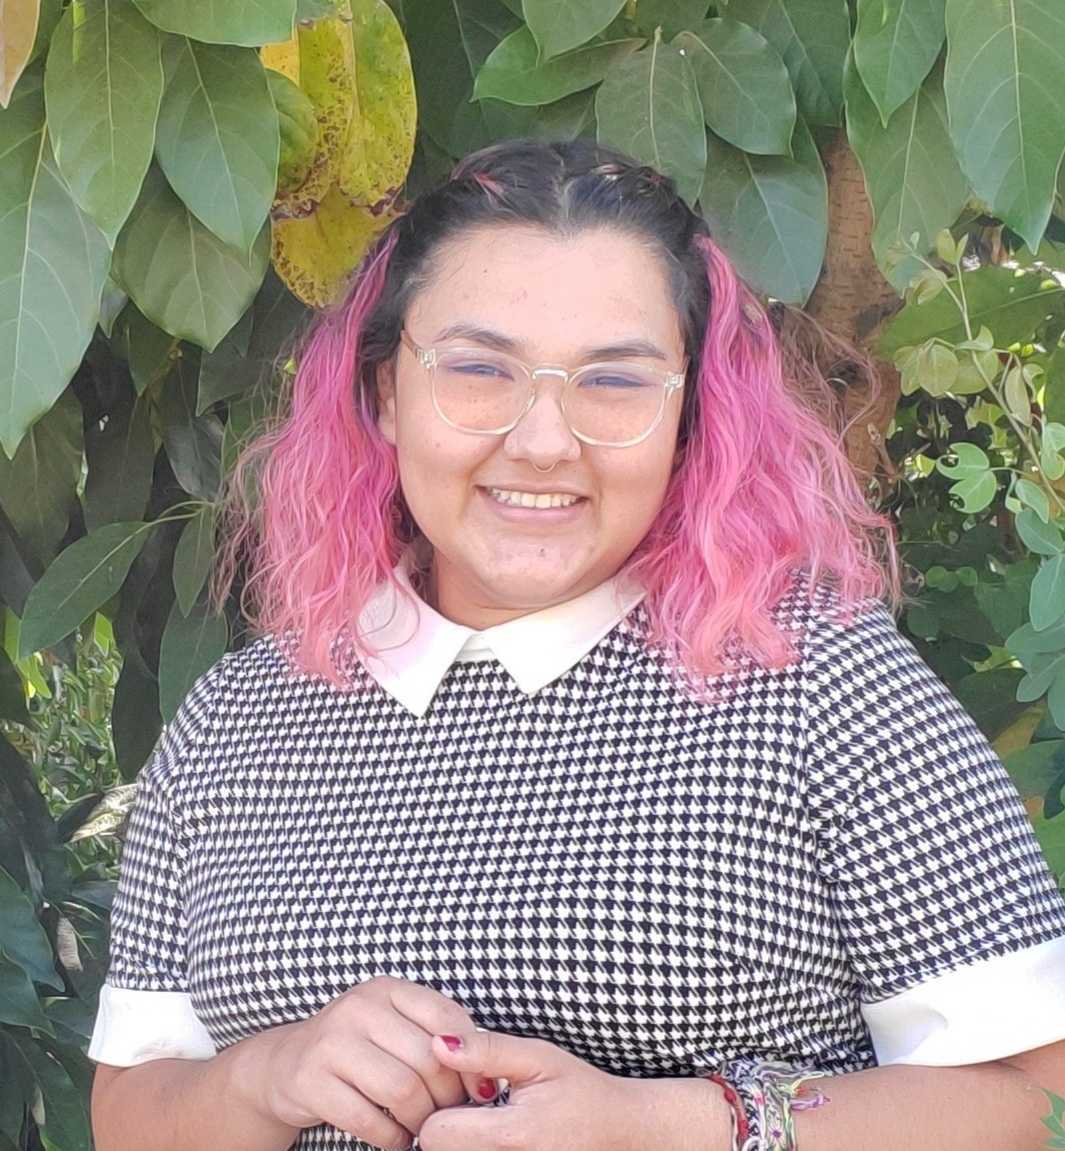
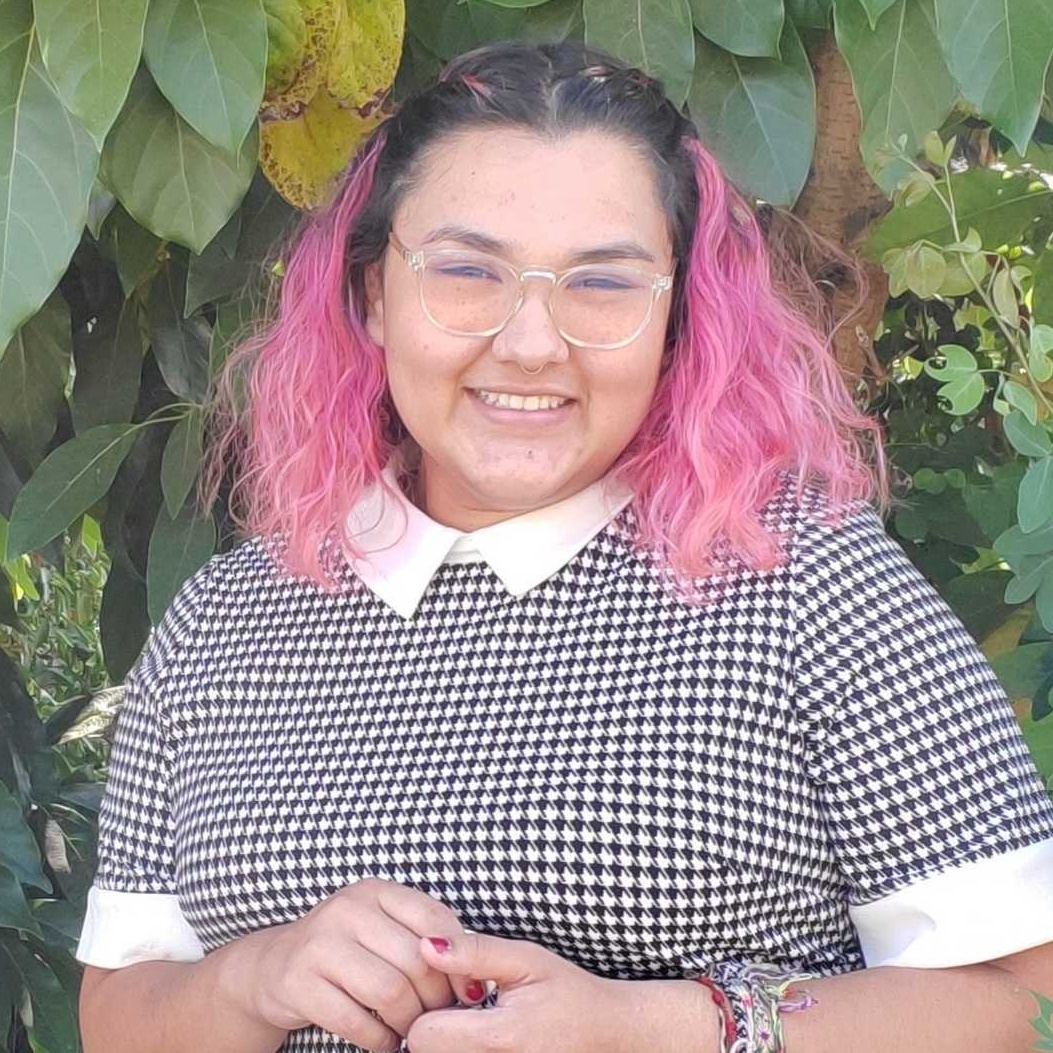
reformat pictures

diff --git a/src/components/Team/Team.scss b/src/components/Team/Team.scss
@@ -28,23 +28,22 @@
     .member {
       margin: 0px 40px;
       margin-bottom: 50px;
-      max-width: 250px;
       .picture {
         width: 230px;
-        // width: 100%;
+        height: 230px;
         border-radius: 50%;
         margin-bottom: 25px;
-        background: white;
         @media screen and (max-width: 1000px) {
+          height: 150px;
           width: 150px;
         }
       }
       .no-picture {
         width: 230px;
         height: 230px;
-        background: white;
         margin-bottom: 25px;
         @media screen and (max-width: 1000px) {
+          height: 150px;
           width: 150px;
         }
       }
@@ -57,6 +56,7 @@
 
       .position {
         font-family: Avenir;
+        font-weight: 400;
         color: #5B5C74;
         font-size: 20px;
         margin-bottom: 5px;
